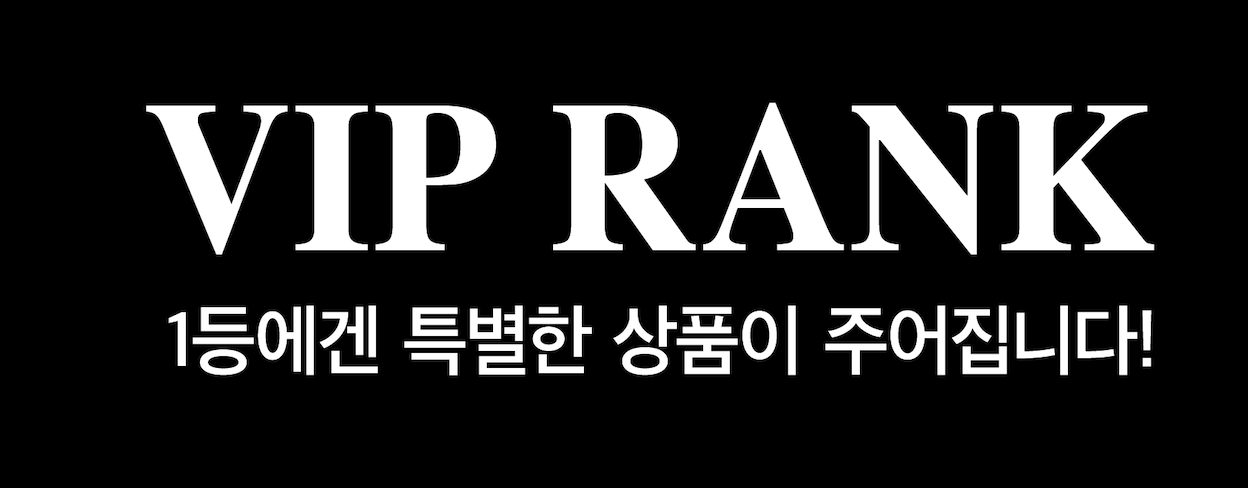
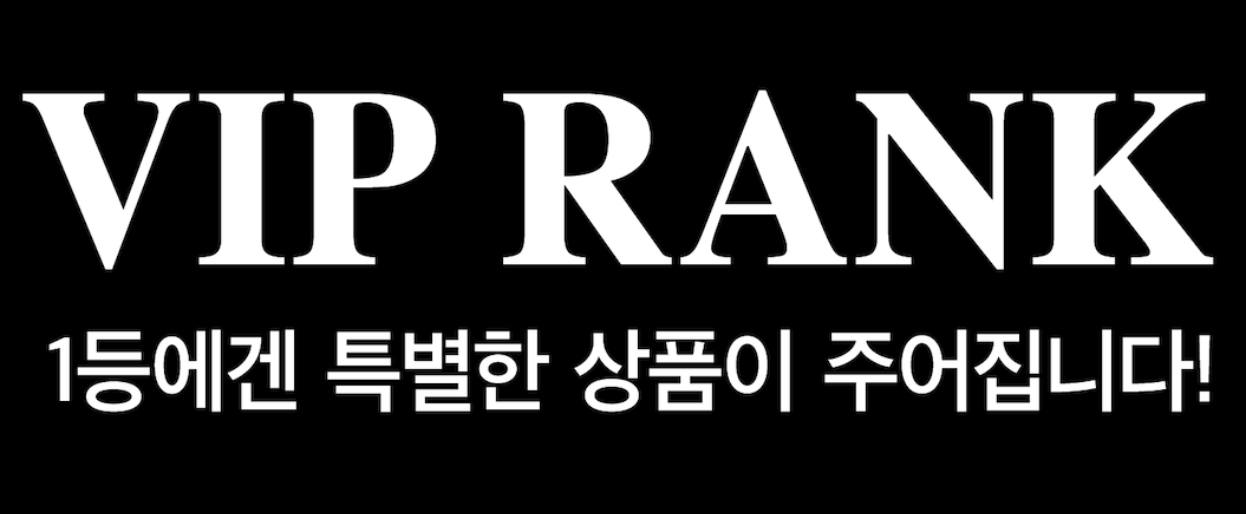
순위별 글씨 크기 통일 (모두 6rem) 및 VIP RANK 로고 마진 원복 (3vw)

Changed region(s): [[0.0, 0.1537, 0.9759, 0.5225], [0.0305, 0.6148, 0.9759, 0.8299]]

diff --git a/templates/index.html b/templates/index.html
@@ -83,33 +83,34 @@
     
     .rank-item {
       font-weight: bold;
-      margin-bottom: 25px;
+      margin-bottom: 0px;
       text-align: right;
+      white-space: nowrap;
     }
     
     .rank-list {
       margin-top: 15vh;
-      margin-right: 3vw;
+      margin-right: 0vw;
     }
     
     .rank-item:nth-child(1) {
-      font-size: 5.5rem;
+      font-size: 6rem;
     }
     
     .rank-item:nth-child(2) {
-      font-size: 4.4rem;
+      font-size: 6rem;
     }
     
     .rank-item:nth-child(3) {
-      font-size: 3.9rem;
+      font-size: 6rem;
     }
     
     .rank-item:nth-child(4) {
-      font-size: 3.4rem;
+      font-size: 6rem;
     }
     
     .rank-item:nth-child(5) {
-      font-size: 2.9rem;
+      font-size: 6rem;
     }
     
     .footer {
@@ -142,10 +143,9 @@
     }
     
     .vip-word-image {
-      width: 100%;
-      max-width: 50vw;
+      width: 50vw;
       margin-top: 10vh;
-      margin-left: 0vw;
+      margin-left: 3vw;
     }
     
     
